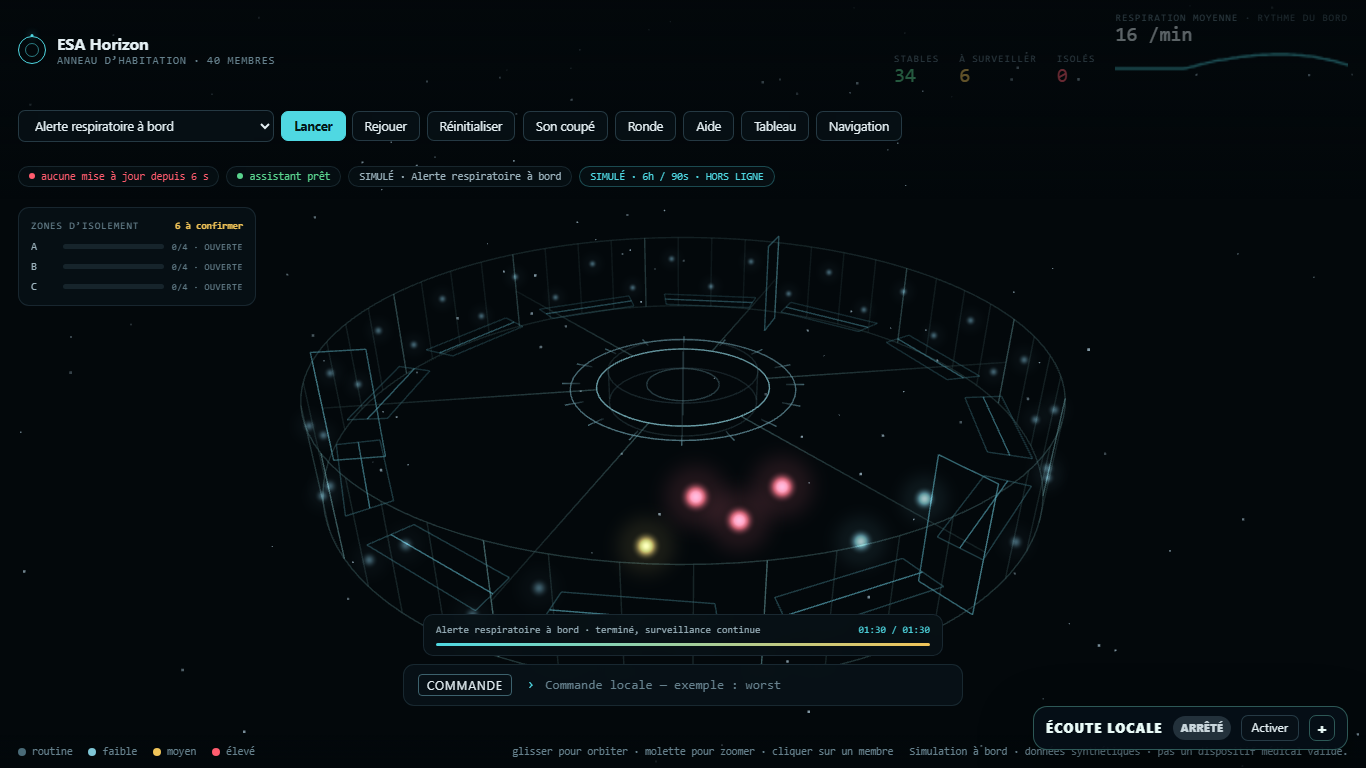
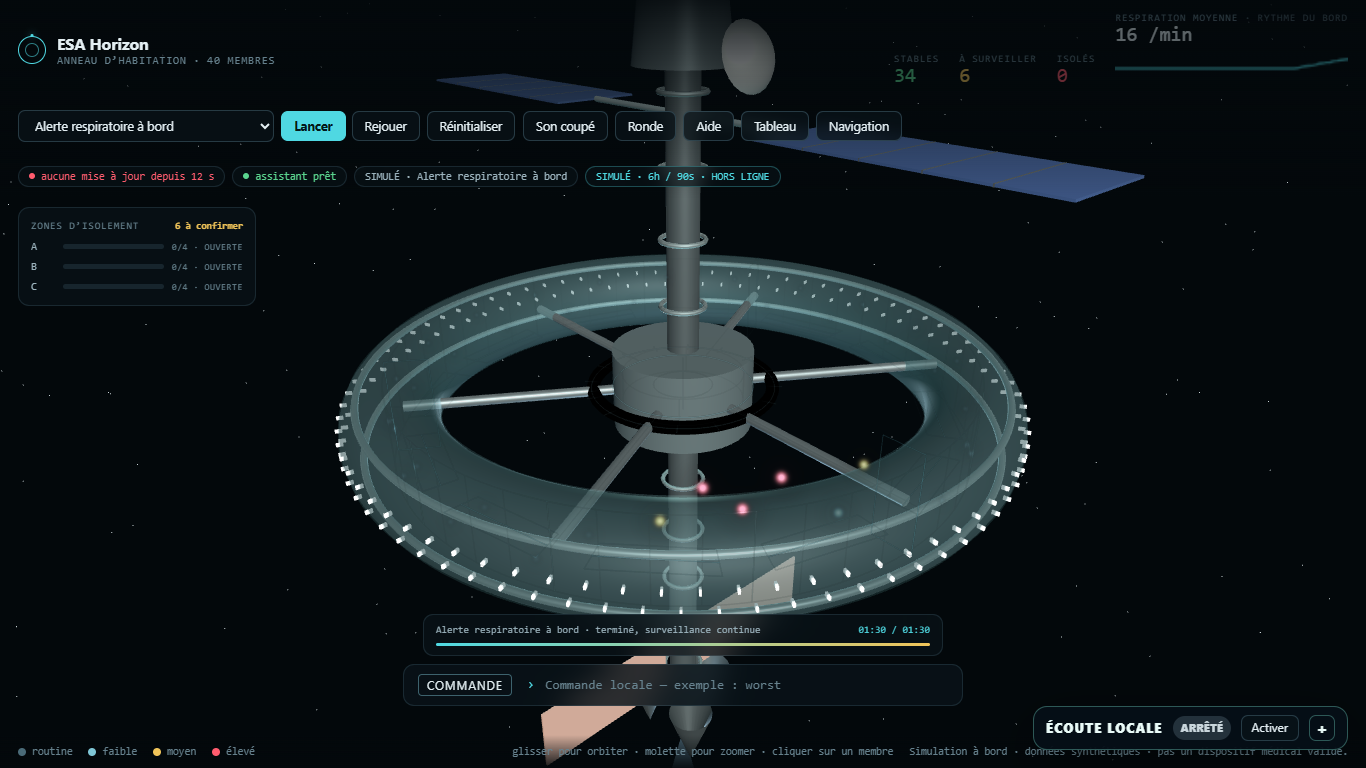
A ship you can see
Eddy, 24 Sep: the space ship view should look like an actual space ship.
A vendored three.js draws the hull on a canvas under the technical
overlay: the habitation ring as a glass torus with its window belt and
rails, six spokes, the despun medbay core with its docking rim, a ribbed
spine, a command module with lit ports and a dish forward, three engines
with their glow aft, solar arrays forward and radiators aft that warm
with crew fever. It uses the camera ship.js computes each frame, so the
crew glow, the berths and the seals stay exactly where the hull is; the
overview sits further back to take the whole ship in. Without the script,
the overlay draws as before.

Changed region(s): [[0.1537, 0.0, 0.8302, 1.0], [0.8609, 0.0625, 0.9839, 0.0938]]

diff --git a/web/hull.js b/web/hull.js
@@ -30,7 +30,7 @@
     // The torus: the crew live in here. Slightly translucent so the
     // technical overlay (berths, bulkheads, the crew glow) reads through.
     var hull = new THREE.Mesh(new THREE.TorusGeometry(RING_R, TUBE, 22, 180),
-      mat(0x25343d, { transparent: true, opacity: 0.66, roughness: 0.5 }));
+      mat(0x1c2a33, { transparent: true, opacity: 0.5, roughness: 0.55 }));
     hull.rotation.x = Math.PI / 2;
     g.add(hull);
     // Two outer rails, the structure ship.js draws as lines, made solid.
@@ -41,12 +41,12 @@
       g.add(rail);
     });
     // Windows: a belt of small lit panes on the outer wall.
-    var paneGeo = new THREE.BoxGeometry(0.22, 0.12, 0.04);
-    var paneMat = new THREE.MeshStandardMaterial({ color: 0x0b1a20, emissive: 0x7be8d3, emissiveIntensity: 1.6, roughness: 0.2 });
-    windows = new THREE.InstancedMesh(paneGeo, paneMat, 120);
+    var paneGeo = new THREE.BoxGeometry(0.13, 0.07, 0.04);
+    var paneMat = new THREE.MeshStandardMaterial({ color: 0x0b1a20, emissive: 0x9ff0e0, emissiveIntensity: 1.3, roughness: 0.2 });
+    windows = new THREE.InstancedMesh(paneGeo, paneMat, 160);
     var dummy = new THREE.Object3D();
-    for (var i = 0; i < 120; i++) {
-      var a = i / 120 * Math.PI * 2, r = RING_R + TUBE * 0.98;
+    for (var i = 0; i < 160; i++) {
+      var a = i / 160 * Math.PI * 2, r = RING_R + TUBE * 0.98;
       dummy.position.set(Math.cos(a) * r, (i % 2 ? 0.18 : -0.18), Math.sin(a) * r);
       dummy.rotation.set(0, -a, 0);
       dummy.updateMatrix();
@@ -131,23 +131,23 @@
     engineLight.position.y = -10.4;
     g.add(engineLight);
     // Solar arrays forward of the ring, radiators aft.
-    var panelMat = new THREE.MeshStandardMaterial({ color: 0x14245a, emissive: 0x0d1f4d, emissiveIntensity: 0.35, metalness: 0.4, roughness: 0.35, side: THREE.DoubleSide });
+    var panelMat = new THREE.MeshStandardMaterial({ color: 0x0f1b46, emissive: 0x0a1a44, emissiveIntensity: 0.3, metalness: 0.4, roughness: 0.4, side: THREE.DoubleSide });
     [1, -1].forEach(function (sx) {
-      var truss = new THREE.Mesh(new THREE.CylinderGeometry(0.07, 0.07, 3.0, 8), mat(0x5d7c88));
+      var truss = new THREE.Mesh(new THREE.CylinderGeometry(0.06, 0.06, 2.4, 8), mat(0x5d7c88));
       truss.rotation.z = Math.PI / 2;
-      truss.position.set(sx * 1.9, 4.4, 0);
+      truss.position.set(sx * 1.5, 5.6, 0);
       g.add(truss);
-      var panel = new THREE.Mesh(new THREE.BoxGeometry(7.5, 0.05, 2.6), panelMat);
-      panel.position.set(sx * 7.1, 4.4, 0);
+      var panel = new THREE.Mesh(new THREE.BoxGeometry(5.2, 0.04, 1.9), panelMat);
+      panel.position.set(sx * 5.3, 5.6, 0);
       g.add(panel);
-      for (var k = 1; k < 6; k++) {
-        var line = new THREE.Mesh(new THREE.BoxGeometry(0.03, 0.06, 2.6), mat(0x8fa8b2, { metalness: 0.9 }));
-        line.position.set(sx * (3.35 + k * 1.25), 4.4, 0);
+      for (var k = 1; k < 5; k++) {
+        var line = new THREE.Mesh(new THREE.BoxGeometry(0.025, 0.05, 1.9), mat(0x8fa8b2, { metalness: 0.9 }));
+        line.position.set(sx * (2.7 + k * 1.04), 5.6, 0);
         g.add(line);
       }
       var radMat = new THREE.MeshStandardMaterial({ color: 0x3b3238, emissive: 0xff7a3a, emissiveIntensity: 0.18, roughness: 0.7, side: THREE.DoubleSide });
-      var rad = new THREE.Mesh(new THREE.BoxGeometry(0.05, 2.2, 4.8), radMat);
-      rad.position.set(0, -5.2, sx * 3.0);
+      var rad = new THREE.Mesh(new THREE.BoxGeometry(0.05, 1.6, 3.6), radMat);
+      rad.position.set(0, -7.6, sx * 2.4);
       g.add(rad);
       radiators.push(rad);
     });

diff --git a/web/ship.js b/web/ship.js
@@ -23,8 +23,13 @@
   "use strict";
 
   var canvas = document.getElementById("gl");
-  var gl = canvas.getContext("webgl2", { antialias: true, alpha: false })
-        || canvas.getContext("webgl", { antialias: true, alpha: false });
+  // The hull (a real ship, three.js) draws on its own canvas underneath;
+  // this canvas then keeps only the overlay: structure lines, berths, seals
+  // and the crew glow, over a transparent clear. Without the hull script
+  // everything draws here as before, on an opaque background.
+  var hullOn = !!(window.MedBox && MedBox.hull && MedBox.hull.init(document.getElementById("hull")));
+  var gl = canvas.getContext("webgl2", { antialias: true, alpha: hullOn, premultipliedAlpha: false })
+        || canvas.getContext("webgl", { antialias: true, alpha: hullOn, premultipliedAlpha: false });
 
   if (!gl) {
     document.getElementById("fallback").hidden = false;
@@ -369,7 +374,9 @@
     // A phone cannot hold a 12-unit-wide ring and still have it mean
     // anything, so portrait crops the rim slightly rather than shrinking
     // the ship into a logo. The ring reads as continuing past the edge.
-    var t = Math.tan(FOV / 2), m = aspect < 0.85 ? 0.82 : 1.10;
+    // With the hull drawn, the ship is spine, arrays and engines as well as
+    // the ring, so the overview sits further back.
+    var t = Math.tan(FOV / 2), m = (aspect < 0.85 ? 0.82 : 1.10) * (hullOn ? 1.5 : 1);
     var near = RING_R * Math.cos(pitch);          // near edge, toward camera
     var halfV = RING_R * Math.sin(pitch) + DECK_Y * 1.4;
     var needV = halfV * m / t + near;
@@ -702,14 +709,20 @@
     right[0] = view[0]; right[1] = view[4]; right[2] = view[8];
     upv[0]   = view[1]; upv[1]   = view[5]; upv[2]   = view[9];
 
+    if (hullOn) {
+      MedBox.hull.render({ eye: eye, target: cam.target, fov: FOV, aspect: W / H, spin: spin, heat: state.heat,
+                           breath: breath, sealed: state.sealed, view: state.view, viewZone: state.viewZone,
+                           glowZone: state.glowZone, zoneNames: state.zoneNames });
+    }
     gl.viewport(0, 0, W, H);
-    gl.clearColor(0.012, 0.031, 0.043, 1);
+    if (hullOn) gl.clearColor(0, 0, 0, 0); else gl.clearColor(0.012, 0.031, 0.043, 1);
     gl.clear(gl.COLOR_BUFFER_BIT | gl.DEPTH_BUFFER_BIT);
     gl.enable(gl.BLEND);
     gl.blendFunc(gl.SRC_ALPHA, gl.ONE_MINUS_SRC_ALPHA);
     gl.disable(gl.DEPTH_TEST);
 
-    // stars
+    // stars (the hull layer draws its own when it is there)
+    if (!hullOn) {
     gl.useProgram(starProg);
     gl.bindBuffer(gl.ARRAY_BUFFER, starBuf);
     var sPos = gl.getAttribLocation(starProg, "aPos");
@@ -721,6 +734,7 @@
     gl.uniformMatrix4fv(gl.getUniformLocation(starProg, "uVP"), false, vp);
     gl.uniform1f(gl.getUniformLocation(starProg, "uTime"), ts / 1000);
     gl.drawArrays(gl.POINTS, 0, starData.length / 4);
+    }
 
     // habitation ring: spins for artificial gravity, warms with crew fever
     drawLines(ringBuf, ringData.length / 4, state.heat, breath, spin);

diff --git a/web/ship.html b/web/ship.html
@@ -10,6 +10,7 @@
 </head>
 <body>
 
+<canvas id="hull" aria-hidden="true"></canvas>
 <canvas id="gl" aria-label="Vue tridimensionnelle de l’anneau d’habitation et de l’équipage"></canvas>
 
 <div id="fallback" hidden>
@@ -241,6 +242,8 @@
   <span class="disc">Simulation à bord · données synthétiques · pas un dispositif médical validé.</span>
 </footer>
 
+<script src="/static/vendor/three.min.js"></script>
+<script src="/static/hull.js"></script>
 <script src="/static/nav.js"></script>
 <script src="/static/voice.js"></script>
 <script src="/static/mic.js"></script>

diff --git a/web/ship.css b/web/ship.css
@@ -27,7 +27,8 @@ body{
   -webkit-font-smoothing:antialiased;
   padding-top:env(safe-area-inset-top,0px);padding-bottom:env(safe-area-inset-bottom,0px);
 }
-#gl{position:fixed;inset:0;width:100%;height:100%;display:block;touch-action:none;cursor:grab}
+#hull{position:fixed;inset:0;width:100%;height:100%;display:block;z-index:0;pointer-events:none}
+#gl{position:fixed;inset:0;width:100%;height:100%;display:block;touch-action:none;cursor:grab;z-index:1;background:transparent}
 #gl:active{cursor:grabbing}
 h1,h2{margin:0;font-weight:650;letter-spacing:-.01em}
 

diff --git a/tests/test_the_crew_is_the_team.py b/tests/test_the_crew_is_the_team.py
@@ -343,3 +343,18 @@ def test_the_ship_has_rooms_the_referent_can_show():
     mic = (ROOT / "web" / "mic.js").read_text(encoding="utf-8")
     assert "MedBox.ship.local(text)" in mic
 
+def test_the_ship_page_draws_a_hull_under_its_overlay():
+    """Eddy, 24 Sep: "the space ship view should look like an actual space
+    ship". A vendored three.js draws the hull (ring, spokes, core, spine,
+    engines, arrays) on a canvas under the overlay, with the camera ship.js
+    computes; without the script, the overlay draws as before."""
+    html = (ROOT / "web" / "ship.html").read_text(encoding="utf-8")
+    assert '<canvas id="hull"' in html and 'src="/static/vendor/three.min.js"' in html and 'src="/static/hull.js"' in html
+    assert html.index('src="/static/hull.js"') < html.index('src="/static/nav.js"')
+    ship = (ROOT / "web" / "ship.js").read_text(encoding="utf-8")
+    assert "MedBox.hull.init(" in ship and "MedBox.hull.render({" in ship and "alpha: hullOn" in ship
+    hull = (ROOT / "web" / "hull.js").read_text(encoding="utf-8")
+    for needle in ("function buildRing(", "function buildCore(", "TorusGeometry", "root.MedBox.hull = {"):
+        assert needle in hull, needle
+    assert (ROOT / "web" / "vendor" / "three.min.js").stat().st_size > 100_000
+
